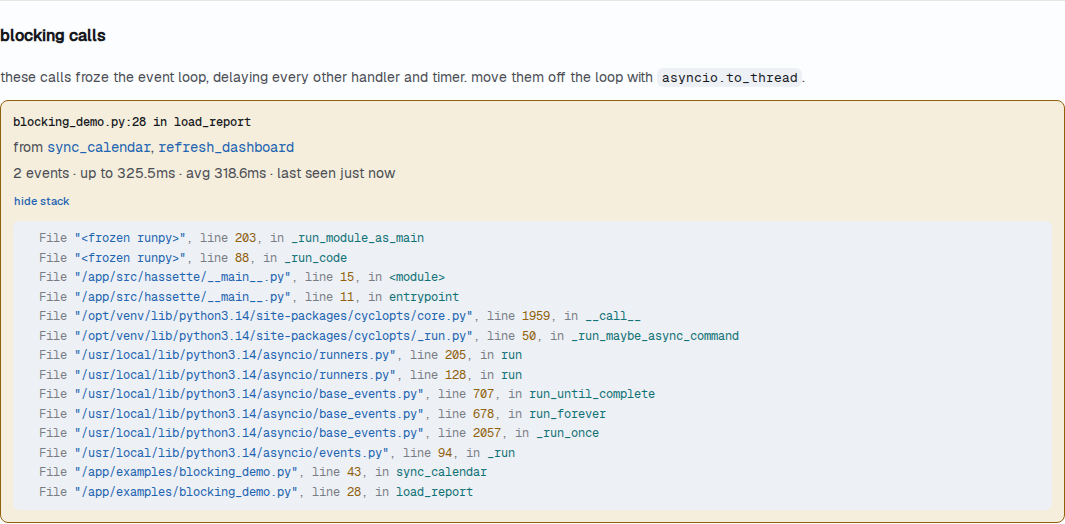
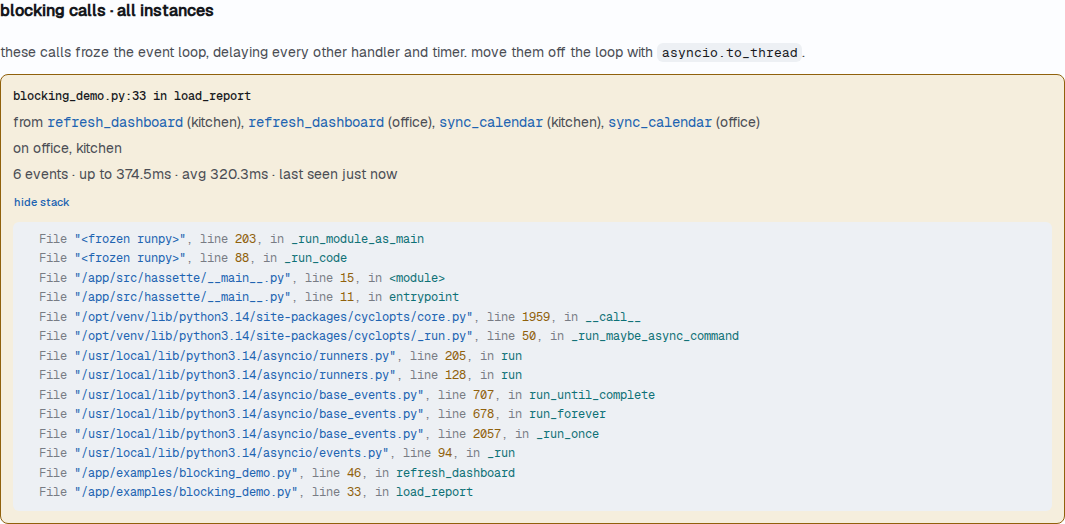
docs: screenshot the blocking badge, app-wide findings and loop stalls panel
Claude-Session: https://claude.ai/code/session_01AKvP9Sz9itzJqpeXZXN78i

diff --git a/examples/blocking_demo.py b/examples/blocking_demo.py
@@ -3,12 +3,17 @@
 Demo app used to populate the blocking-calls findings for documentation screenshots. Two jobs
 call one shared helper that makes a synchronous, loop-blocking call, the way an app might use a
 synchronous HTTP client. Blocking-IO detection groups both jobs' events under that one call site.
+It runs as two instances, so the app-wide overview lists the call site under both.
+
+A third job hands the same helper to a loop callback and to a separate task while it waits, so
+the loop stalls with no app credited for them: the diagnostics page's loop stalls panel.
 
 NOT a real automation, and an example of what NOT to do: the fix is to run the helper in a
 worker thread (``await asyncio.to_thread(load_report)``). `autostart = false` in hassette.toml:
 it blocks the loop on purpose, so it's started via the API only when a screenshot needs it.
 """
 
+import asyncio
 import time
 
 from pydantic_settings import SettingsConfigDict
@@ -35,9 +40,27 @@ class BlockingDemo(App[BlockingDemoConfig]):
     async def on_initialize(self) -> None:
         await self.scheduler.run_every(self.refresh_dashboard, seconds=5, name="refresh_dashboard")
         await self.scheduler.run_every(self.sync_calendar, seconds=7, name="sync_calendar")
+        await self.scheduler.run_every(self.poll_feed, seconds=11, name="poll_feed")
 
     async def refresh_dashboard(self) -> None:
         load_report(self.app_config.block_seconds)
 
     async def sync_calendar(self) -> None:
         load_report(self.app_config.block_seconds)
+
+    async def poll_feed(self) -> None:
+        """Block the loop from code this job doesn't run itself, so detection can't credit the app.
+
+        The callback blocks with no task running (a framework stall); the separate task blocks while
+        this job is suspended (a displaced stall).
+        """
+        loop = asyncio.get_running_loop()
+        loop.call_soon(load_report, self.app_config.block_seconds)
+        await asyncio.sleep(0.5)
+        task = asyncio.create_task(load_report_in_task(self.app_config.block_seconds))
+        await asyncio.sleep(0.5)
+        await task
+
+
+async def load_report_in_task(block_seconds: float) -> None:
+    load_report(block_seconds)

diff --git a/docs/pages/core-concepts/blocking-io-detection.md b/docs/pages/core-concepts/blocking-io-detection.md
@@ -48,6 +48,8 @@ With both tiers on (Tier 2 runs by default in `dev_mode`), one blocking call usu
 
 **On the apps list.** An app that blocked the loop shows an amber **N blocking** badge next to its status. The badge links to the app's overview.
 
+![The blocking badge on an apps-list row](../../_static/web_ui_apps_blocking_badge.png)
+
 **On the diagnostics page.** Stalls that Hassette couldn't pin on an app appear in a [loop stalls panel](../web-ui/diagnostics.md#loop-stalls). These are never credited to an app, even when the stack contains app code.
 
 **From the CLI.** [`hassette blocking`](../cli/commands.md#hassette-blocking) lists the same findings for every app, plus the unattributed stalls. `--app` narrows it to one app.

diff --git a/docs/pages/web-ui/diagnostics.md b/docs/pages/web-ui/diagnostics.md
@@ -57,6 +57,8 @@ The loop stalls panel appears when [blocking-IO detection](../core-concepts/bloc
 
 The panel shows the count of each and the longest stall, then lists the most recent stalls with their duration and a **show stack** toggle. When a stall's stack contains app code, the row names that line as a lead to investigate. The stall still isn't credited to that app, because a helper in one app's directory can be called by several apps.
 
+![The loop stalls panel with one stall's stack expanded](../../_static/web_ui_diagnostics_loop_stalls.png)
+
 Stalls that Hassette did credit to an app appear on that app's overview instead.
 
 ## Related pages
